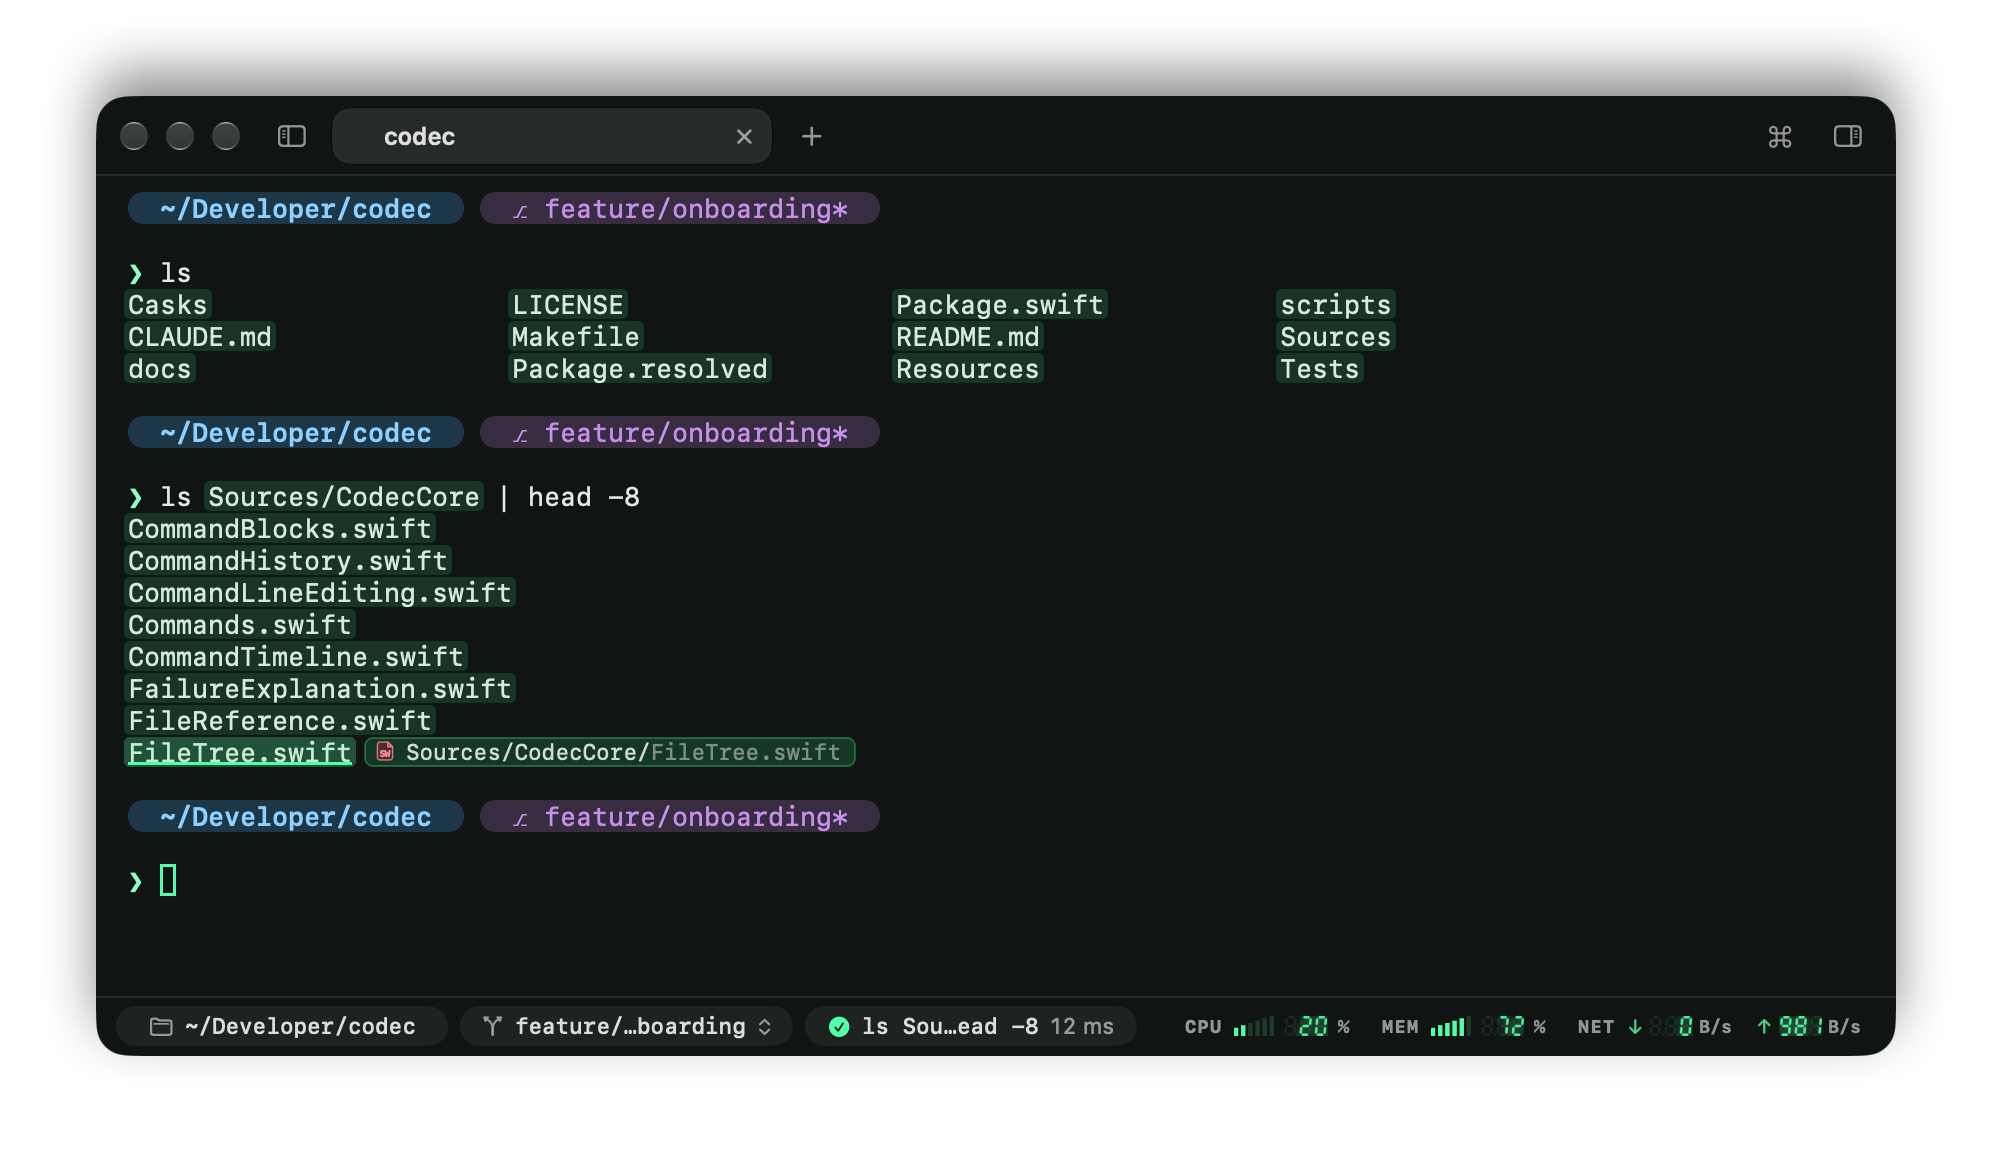
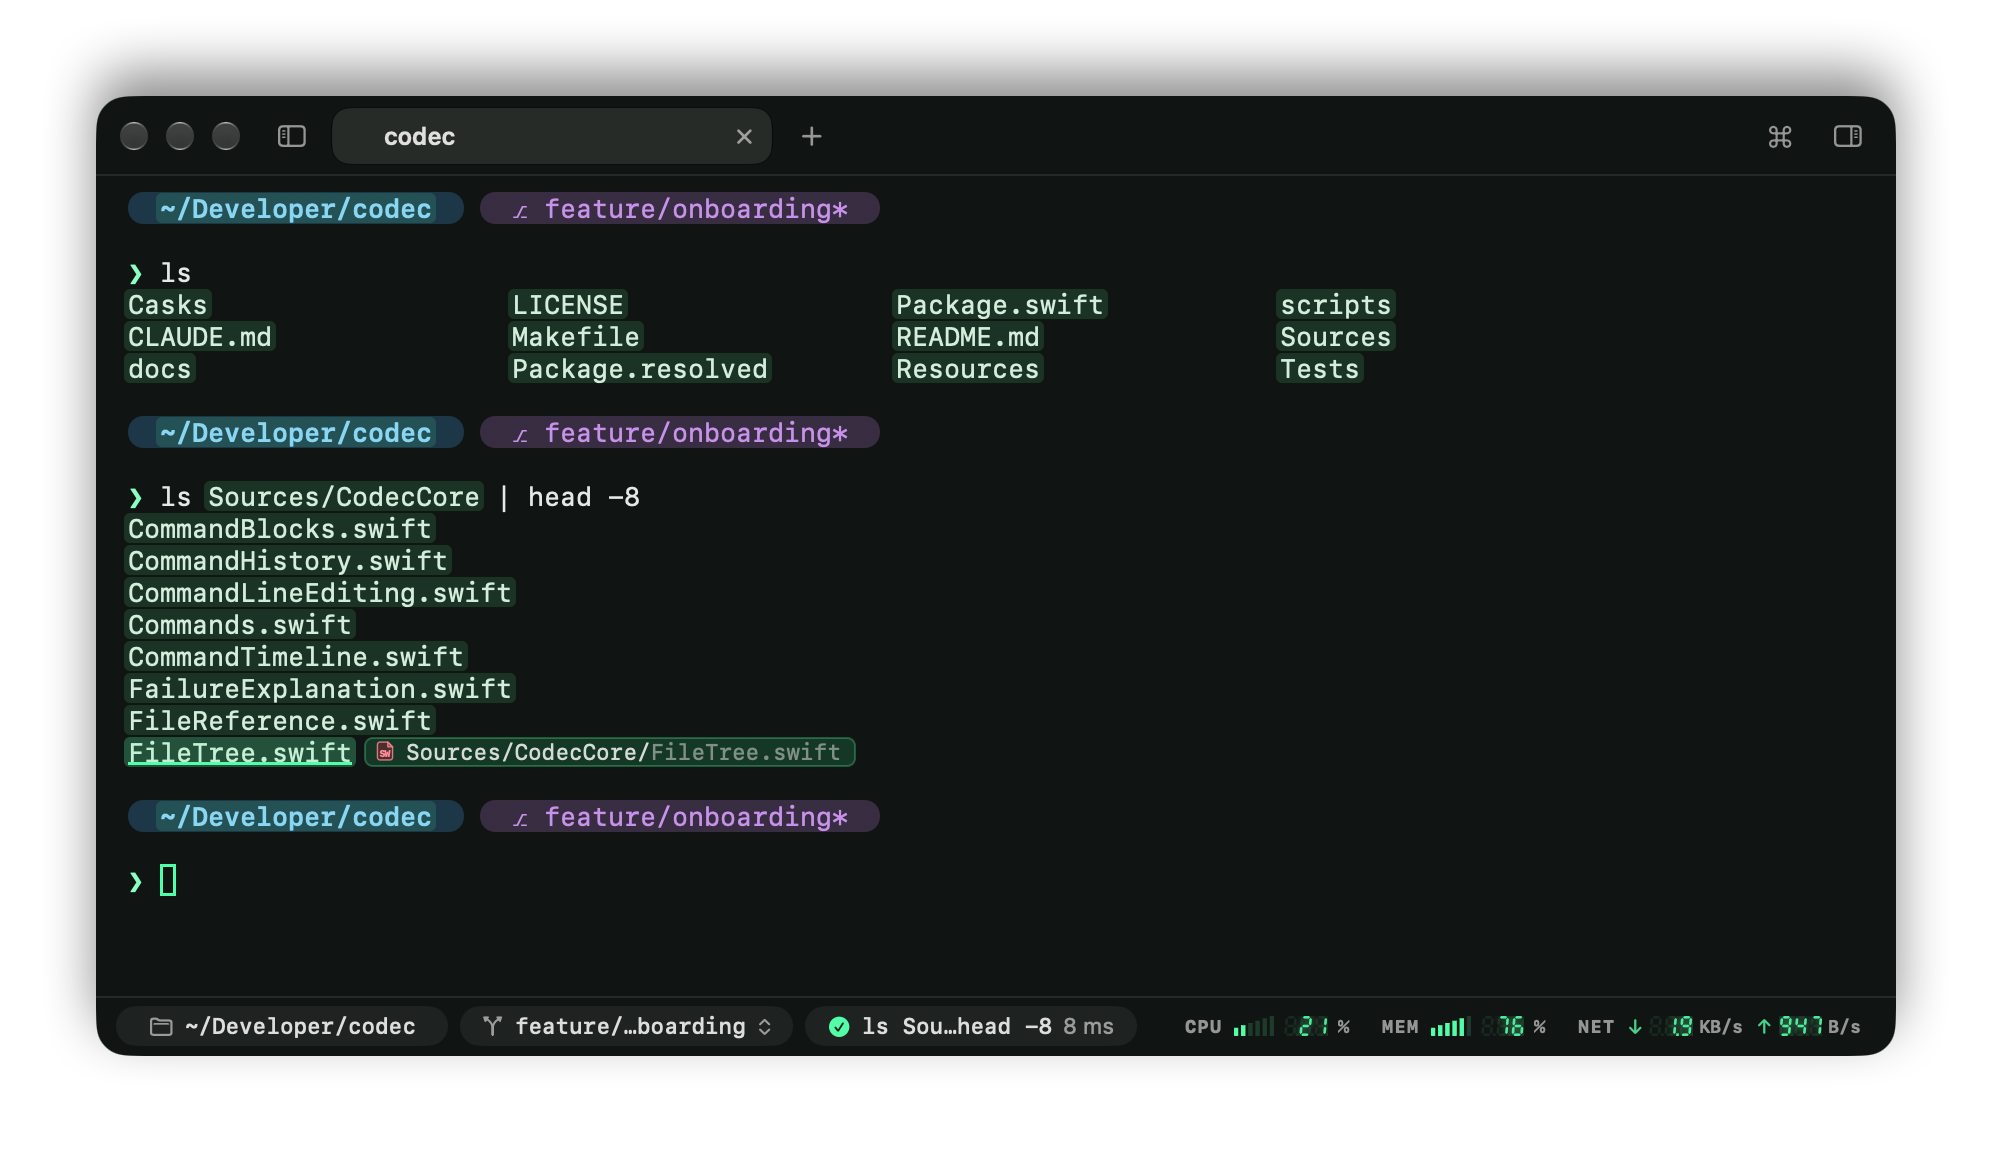
Mark the prompt's file names too, so no output line goes unmarked
The marks left out the prompt's own lines, told from output by command
blocks. After a rewrap a block is found again from the newest line that
ends with its command, which can be a line of its own output: `ls`
printing a row that ends in `Tools`. The block then started a few rows
too low, so a row of `ls` output went unmarked while a prompt's `~` kept
its mark. A prompt where only Return was pressed has no block at all, so
its lines could never be left out reliably either.

The marks no longer depend on where blocks start: every name a ⌘-click
would open is marked, the prompt's included, and ⌘-clicking those opens
them anyway. A test reproduces the moved block with a three-line prompt
and `cat list` printing `wildcat list`. The screenshot is retaken, with
the prompt's directory marked.

diff --git a/Tests/CodecUITests/SelectionTests.swift b/Tests/CodecUITests/SelectionTests.swift
@@ -256,6 +256,41 @@ extension OpenListedFileTests {
         #expect(link.marks.isEmpty)
     }
 
+    /// Regression: the prompt's own lines were left out, found from command blocks. After a rewrap a
+    /// block is found again from the newest line ending with its command, which can be its own output
+    /// (`wildcat list` for `cat list`), so a line of output went unmarked.
+    @Test func everyNameIsMarkedAfterBlocksMove() async throws {
+        let env = try TestEnvironment(shell: "/bin/zsh", integration: true)
+        defer { env.tearDown() }
+        let project = env.directory.appendingPathComponent("project")
+        try FileManager.default.createDirectory(at: project, withIntermediateDirectories: true)
+        try "first.txt\nwildcat list\n".write(to: project.appendingPathComponent("list"), atomically: true, encoding: .utf8)
+        try "".write(to: project.appendingPathComponent("first.txt"), atomically: true, encoding: .utf8)
+        let config = env.directory.appendingPathComponent("zdotdir")
+        try FileManager.default.createDirectory(at: config, withIntermediateDirectories: true)
+        try "PS1=$'top\\n\\n%# '\n".write(to: config.appendingPathComponent(".zshrc"), atomically: true, encoding: .utf8)
+        setenv("ZDOTDIR", config.path, 1)
+        let host = FakeHost()
+        let pane = env.makePane(directory: project.path, host: host)
+        unsetenv("ZDOTDIR")
+        let window = makeTestWindow(size: NSSize(width: 800, height: 400))
+        window.contentView = pane.view
+        pane.view.layoutSubtreeIfNeeded()
+        defer { pane.shutDown(); window.close() }
+        #expect(await waitUntil { pane.isAtCommandLine && pane.session.promptLines == 3 })
+        pane.terminal.send(txt: "cat list\r")
+        #expect(await waitUntil { pane.lastOutputRange != nil && pane.isAtCommandLine })
+        #expect(await waitUntil { pane.terminal.visibleRowsText(0..<12).joined().contains("wildcat list") })
+
+        // As a resize would.
+        pane.sizeChanged(source: pane.terminal, newCols: 80, newRows: 24)
+        pane.updateFileLink(at: try point(of: "wildcat", in: pane), modifiers: .command)
+        let grid = try #require(TerminalGrid(terminal: pane.terminal))
+        let first = grid.cell(at: try point(of: "first.txt", in: pane))
+        #expect(pane.view.fileLink.marks.contains(pane.view.fileLink.convert(
+            grid.frame(row: first.row, columns: first.column..<(first.column + 9)), from: nil)))
+    }
+
     private func modifiersChanged(to flags: NSEvent.ModifierFlags, in window: NSWindow) -> NSEvent {
         NSEvent.keyEvent(with: .flagsChanged, location: .zero, modifierFlags: flags,
                          timestamp: ProcessInfo.processInfo.systemUptime, windowNumber: window.windowNumber, context: nil,

diff --git a/Sources/CodecUI/Pane.swift b/Sources/CodecUI/Pane.swift
@@ -643,13 +643,11 @@ final class Pane: LocalProcessTerminalViewDelegate {
     }
 
     /// Every name on the screen that's a file or folder, each looked for where the command that printed
-    /// it ran. The prompt's own lines are left out, all but the command line: their directory already
-    /// opens from the status bar, and a mark inside a prompt chip would muddy it.
+    /// it ran. The prompt's are marked too: telling its lines from output by command blocks went wrong
+    /// once a block was found again on its own output, and a prompt with no command has no block.
     private func openableNames(in grid: TerminalGrid) -> [OpenableName] {
         relocateBlocksIfNeeded()
         let end = newestBlockEnd
-        let promptStarts = blocks.blocks.map(\.prompt) + (session.running == nil ? end.map { [$0] } ?? [] : [])
-        let promptRows = Set(promptStarts.flatMap { $0..<($0 + max(session.promptLines - 1, 0)) })
         var known: [Int: [String]] = [:]
         func directories(forRow row: Int) -> [String] {
             let index = end.map { row < $0 } == true ? blocks.index(containing: row) : nil
@@ -665,7 +663,6 @@ final class Pane: LocalProcessTerminalViewDelegate {
         while row < grid.rows.count, names.count < 400 {
             guard let line = grid.logicalLine(containing: row) else { break }
             defer { row = max(row + 1, (line.cells.last?.row ?? row) + 1) }
-            guard !promptRows.contains(grid.viewportTop + row) else { continue }
             var index = 0
             while index < line.characters.count {
                 guard let range = SmartSelection.range(in: line.characters, at: index) else {

diff --git a/docs/command-line.md b/docs/command-line.md
@@ -23,7 +23,7 @@ zsh's own selection (the region) is what's highlighted, in the theme's selection
 
 ⌘-click a file's name in the output to open it in the [editor](files-and-editor.md#editor), or a folder's to open it in Finder. It works on what `ls` lists, the paths `git status` and `grep` print, and a compiler's `Sources/App/Main.swift:42:7`. Codec looks for the name where the command that printed it ran, then in the folders it was given, so after `ls Sources` its files open too; on the command line you're typing, in the shell's directory. ⌘-click a URL to open it in the browser.
 
-Hold ⌘ to see what opens. Every file and folder name on screen is washed in the theme's accent color, and the one under the pointer is underlined, with a tag showing its icon and, when the name doesn't say it all, the path that opens (`Sources/CodecCore/FileTree.swift` for a name `ls Sources/CodecCore` listed). The marks go as soon as you let go of ⌘. Names that aren't files are left alone, and so is the prompt, whose directory opens from the status bar.
+Hold ⌘ to see what opens. Every file and folder name on screen is washed in the theme's accent color, and the one under the pointer is underlined, with a tag showing its icon and, when the name doesn't say it all, the path that opens (`Sources/CodecCore/FileTree.swift` for a name `ls Sources/CodecCore` listed). The marks go as soon as you let go of ⌘. Names that aren't files are left alone.
 
 ![⌘ held over the output of ls: every name marked, one tagged with the file that opens](images/open-file.png)
 
